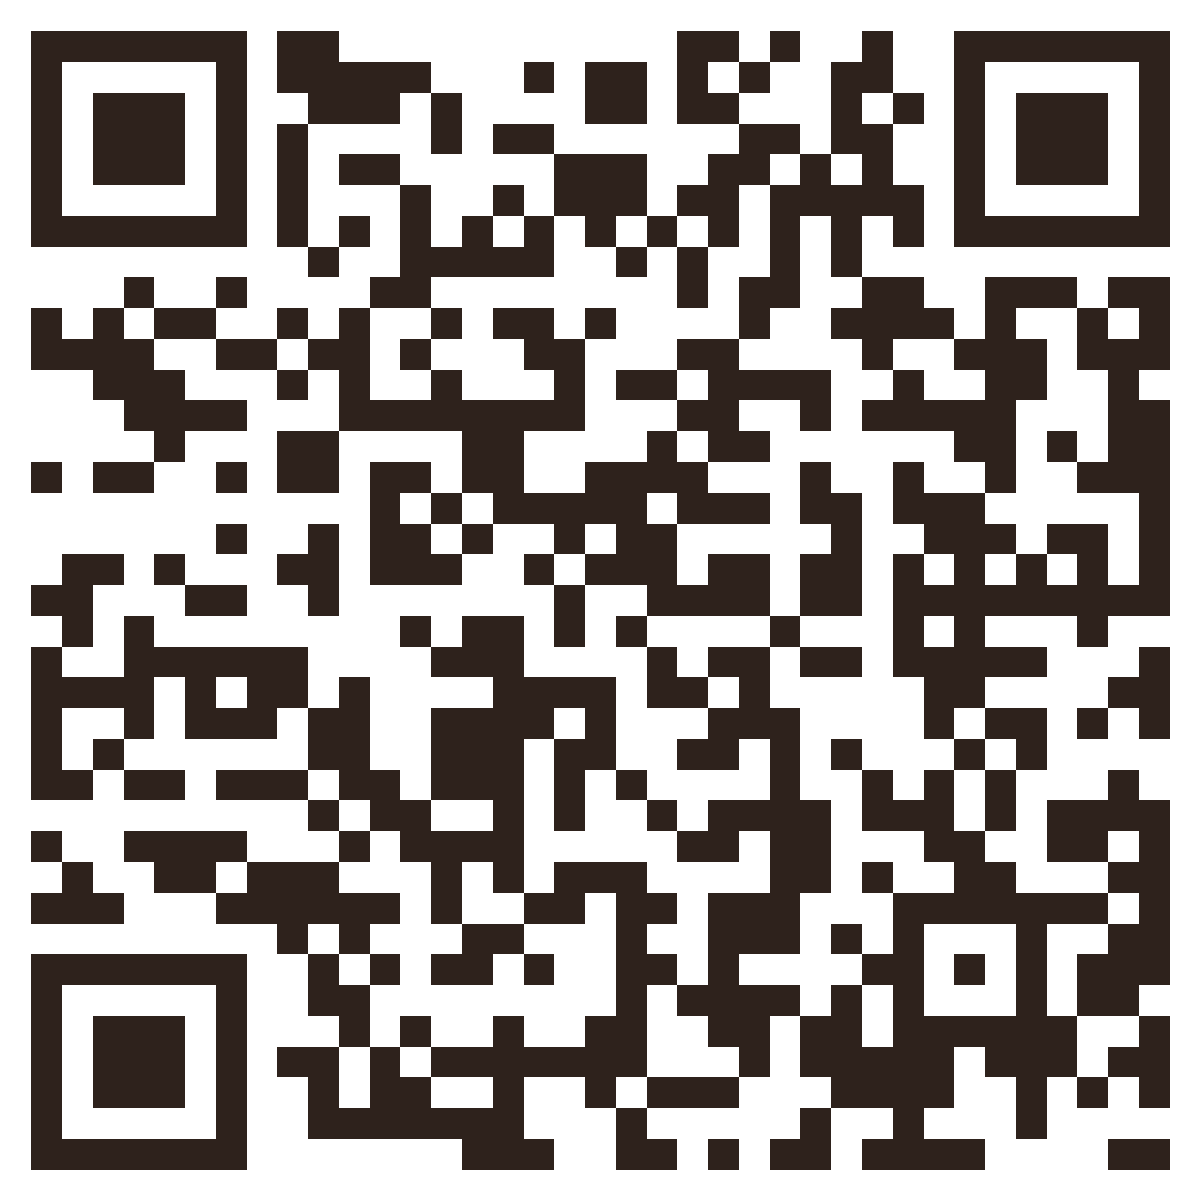
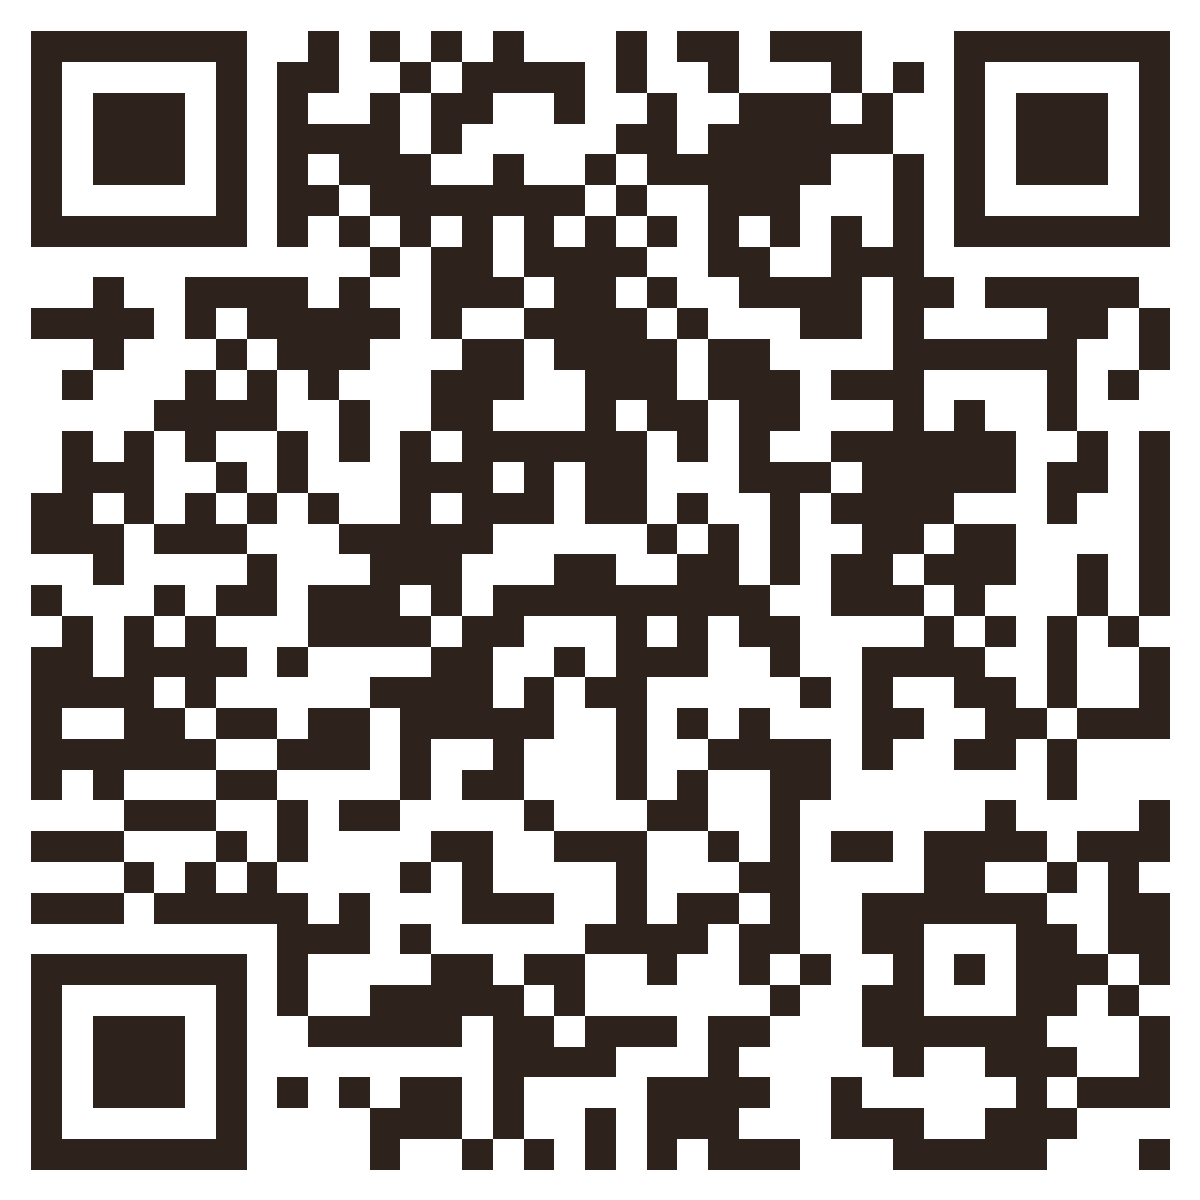
Point QR code at the live site

diff --git a/README.md b/README.md
@@ -39,7 +39,7 @@ npm run qr -- https://YOUR-URL.vercel.app
 
 4. Open `https://YOUR-URL.vercel.app/print.html` and print at 100% scale on A6. Put it in an acrylic stand.
 
-> The included `qr.svg` points to `https://jds-banaras-review.vercel.app`. **Regenerate it if your URL is different**, or the printed QR won't work.
+> The included `qr.svg` points to `https://reviewapp-eta-ecru.vercel.app`. **Regenerate it if your URL is different**, or the printed QR won't work.
 
 ## Customise
 
